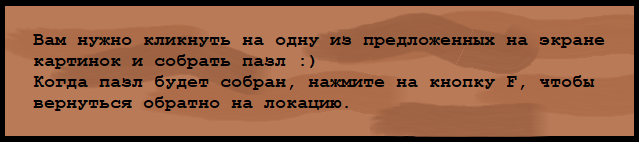
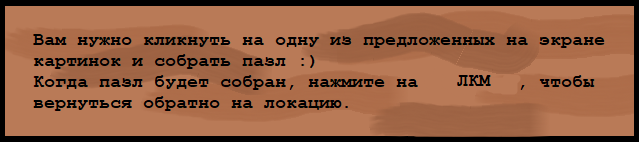
изменены кнопки выхода из мини-игр, изменены таблички с информацией для мини-игр

Changed region(s): [[0.6541, 0.507, 0.8326, 0.6197]]

diff --git a/Assets/University/Typing Game/WordManager.cs b/Assets/University/Typing Game/WordManager.cs
@@ -76,7 +76,7 @@ public class WordManager : MonoBehaviour
         {
             words.Clear();
             failedGame.Setup(countWords);
-            if (Input.GetKeyDown(KeyCode.F))
+            if (Input.GetButton("Fire1"))
                 SceneManager.LoadScene(location);
         }
     }
@@ -87,7 +87,7 @@ public class WordManager : MonoBehaviour
         {
             words.Clear();
             winGame.Setup(countWords);
-            if (Input.GetKeyDown(KeyCode.F))
+            if (Input.GetButton("Fire1"))
             {
                 GameStats.rating -= 13;
                 if (GameStats.rating <= 1)

diff --git a/Assets/University/Puzzle/Scenes.cs b/Assets/University/Puzzle/Scenes.cs
@@ -15,7 +15,7 @@ public class Scenes : MonoBehaviour
     // Update is called once per frame
     void Update()
     {
-        if (Input.GetKeyDown(KeyCode.F) && PiecesScript.countPieces == 36)
+        if (Input.GetButton("Fire1") && PiecesScript.countPieces == 36)
         {
             GameStats.rating -= 18;
             if (GameStats.rating < 1)

diff --git a/Assets/University/Pairs/GameController.cs b/Assets/University/Pairs/GameController.cs
@@ -43,7 +43,7 @@ public class GameController : MonoBehaviour
 
     void Update()
     {
-        if (Input.GetKeyDown(KeyCode.F) && countCorrectGuesses == gameGuesses)
+        if (Input.GetButton("Fire1") && countCorrectGuesses == gameGuesses)
         {
             GameStats.rating -= 18;
             if (GameStats.rating <= 1)

diff --git a/Assets/University/Puzzle/IsSolution.cs b/Assets/University/Puzzle/IsSolution.cs
@@ -13,7 +13,7 @@ public class IsSolution : MonoBehaviour
 
     void Update()
     {
-        if (isEnd && Input.GetKeyDown(KeyCode.F))
+        if (isEnd && Input.GetKeyDown("Fire1"))
         {
             EndGame();
         }
